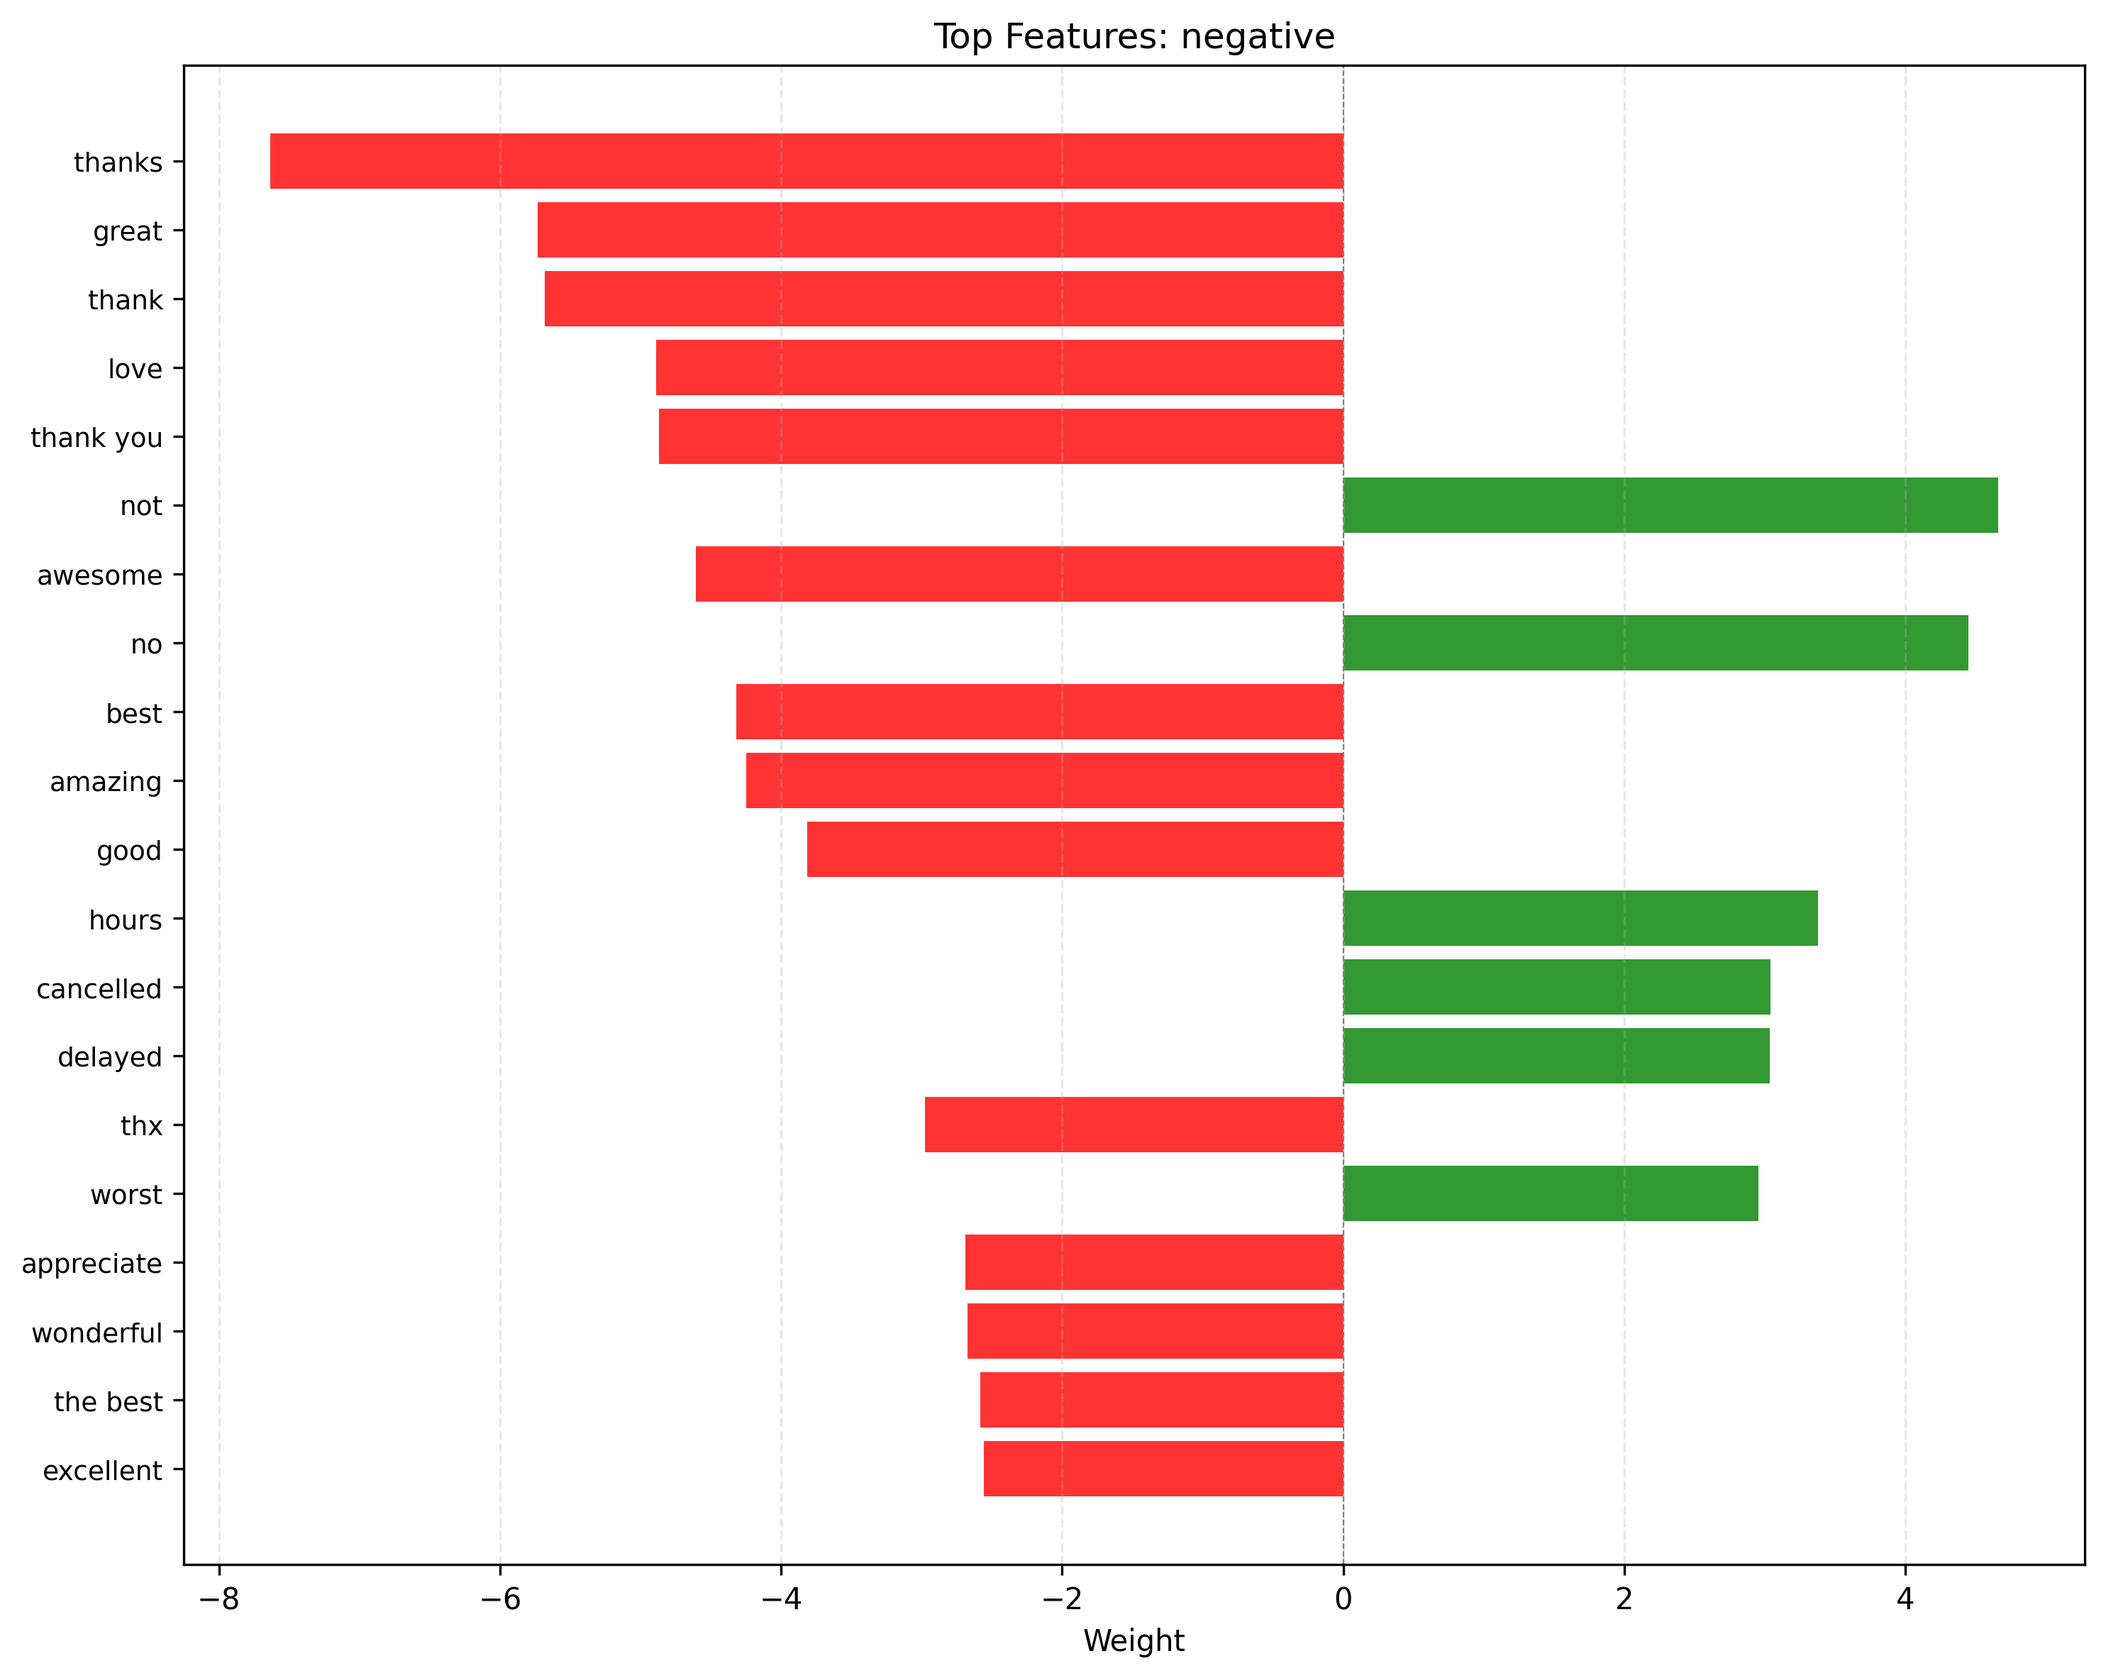
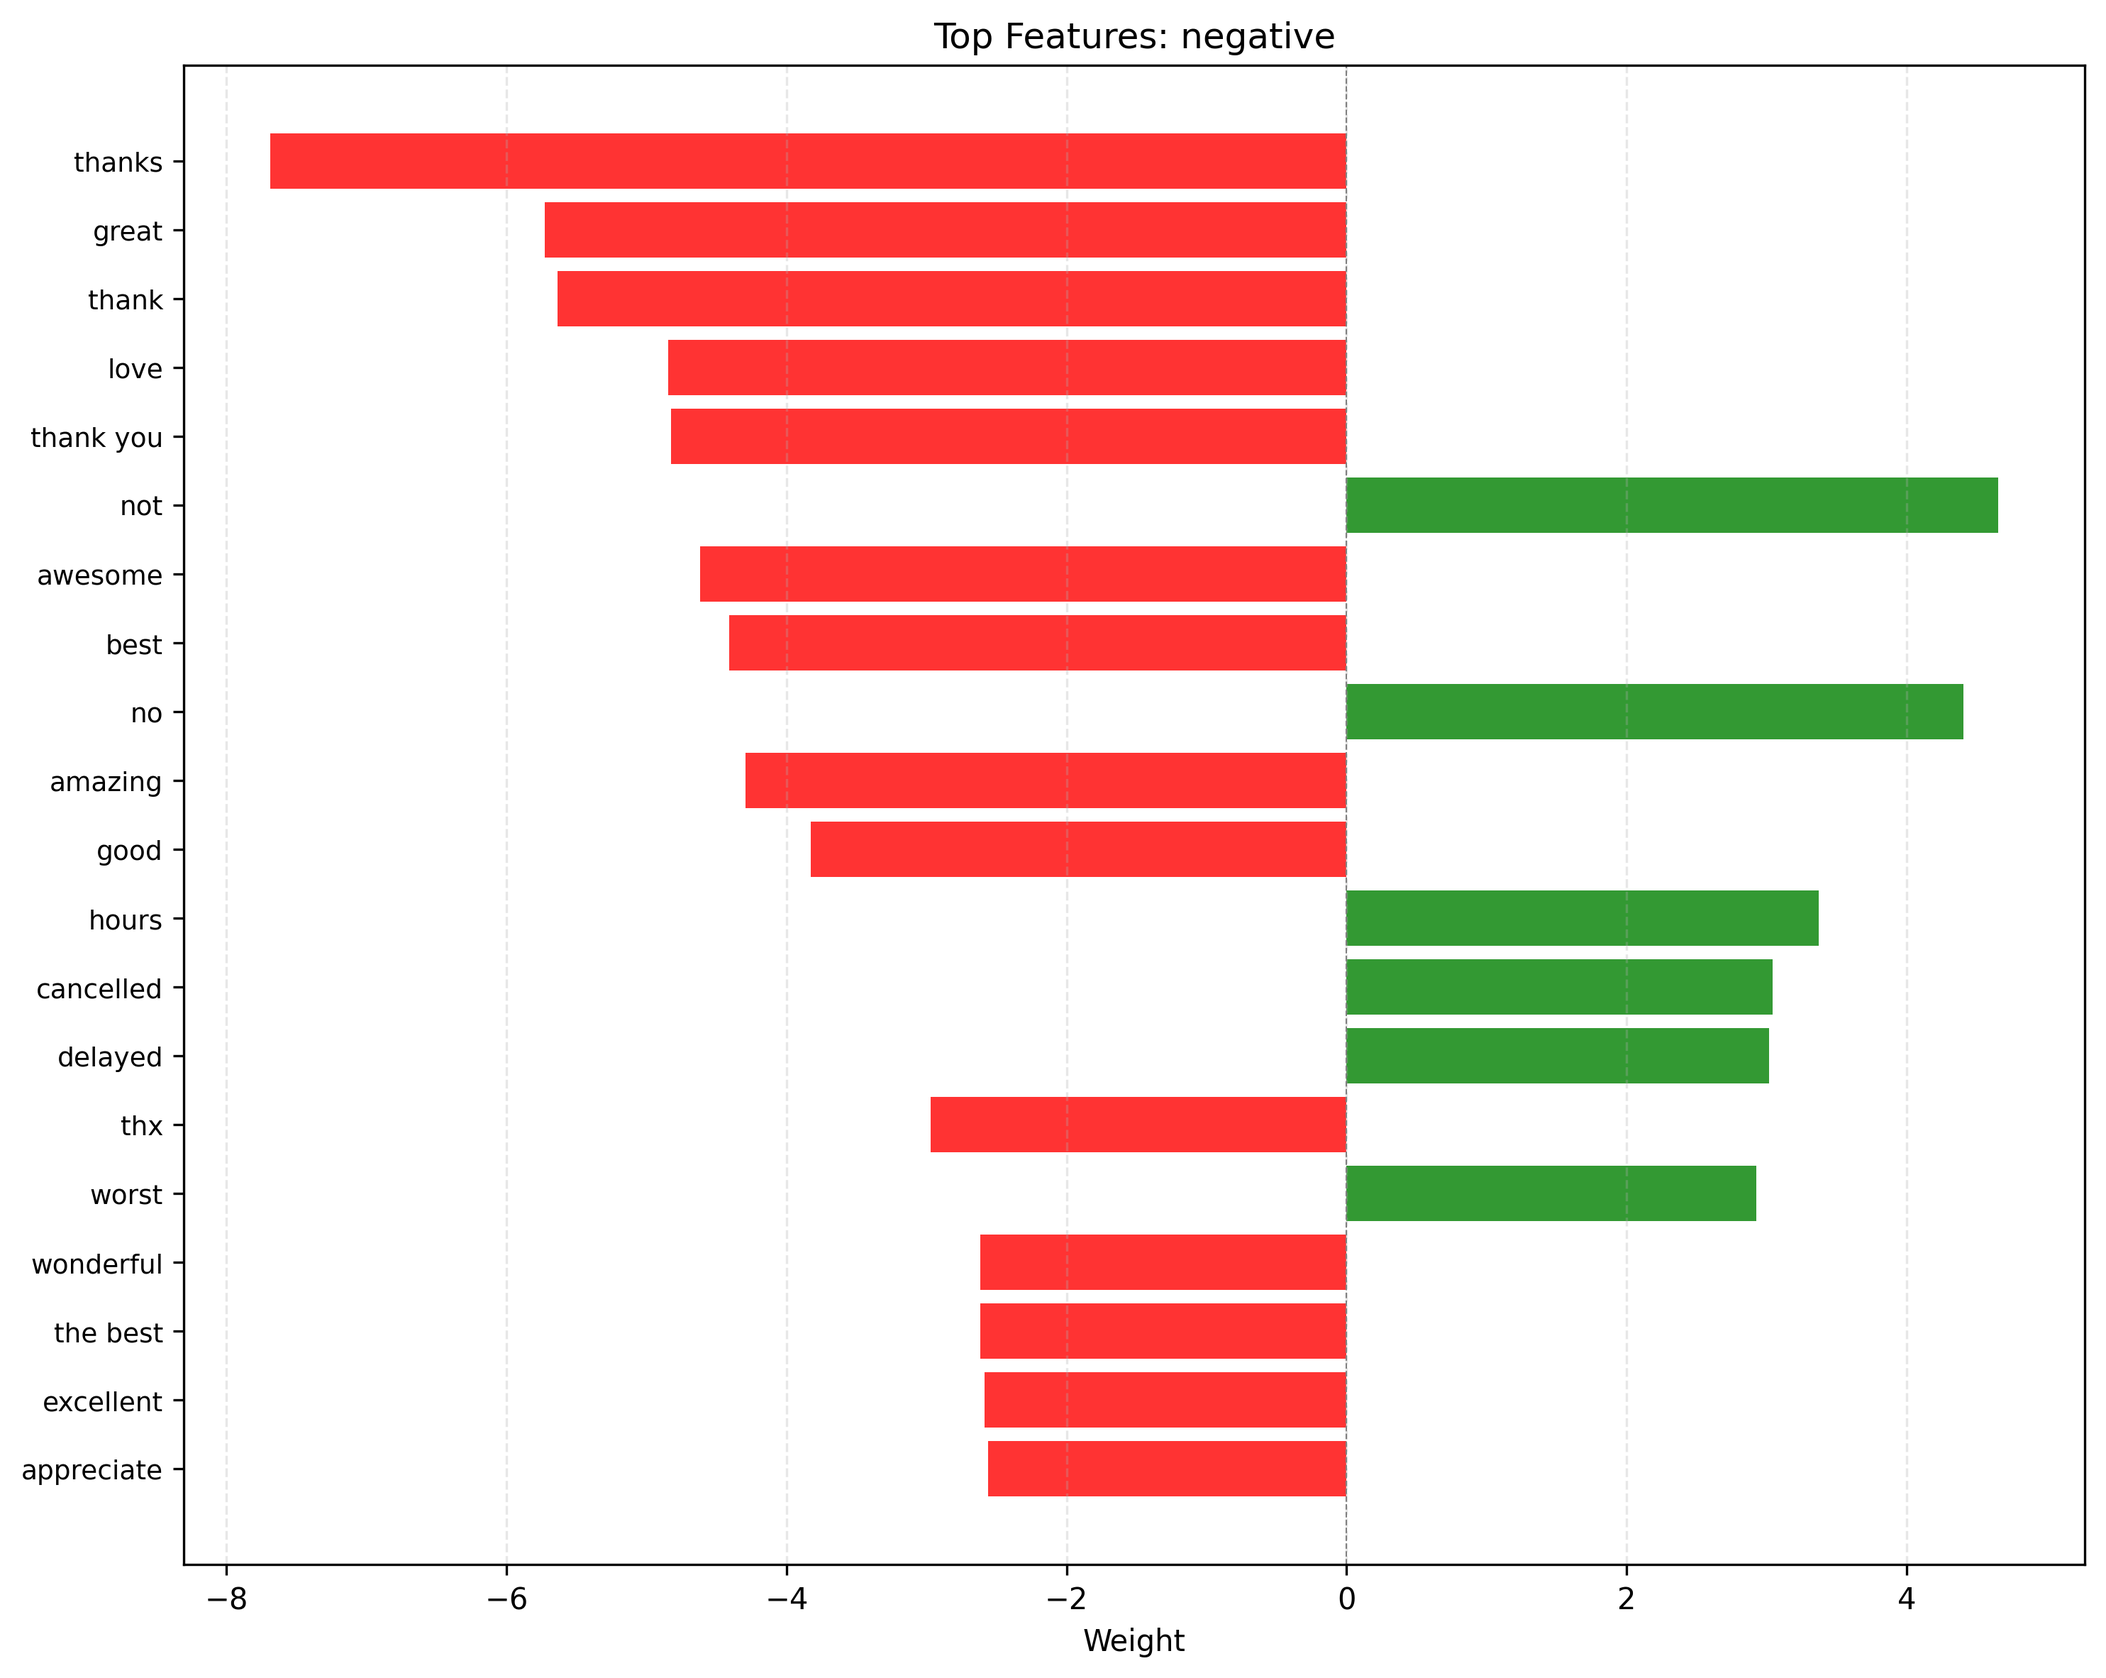
docs: update plots and metrics after retraining with fixed pipeline

diff --git a/README.ru.md b/README.ru.md
@@ -24,7 +24,7 @@
 
 | Категория | Ключевые особенности |
 |-----------|---------------------|
-| **Данные и предобработка** | Фильтрация по порогу уверенности, настраиваемая очистка (URL, упоминания, пунктуация), опциональная лемматизация, TF-IDF/Count векторизация |
+| **Данные и предобработка** | Фильтрация по порогу уверенности, настраиваемая очистка (URL, упоминания, пунктуация), опциональная лемматизация, TF-IDF/Count векторизация; очистка встроена в векторизатор, поэтому при обучении и инференсе текст обрабатывается одинаково |
 | **Обучение и оценка** | Обучение с весами по уверенности, стратифицированное разделение, комплексные метрики (F1, ROC-AUC, матрица ошибок), авто-экспорт в JSON/CSV |
 | **Интерпретируемость** | Топ-слова с наибольшим вкладом по классам, объяснения для отдельных предсказаний, при отсутствии пакета SHAP используется резервный метод |
 | **API и сервис** | Асинхронно-безопасные эндпоинты FastAPI, валидация через Pydantic v2, потокобезопасный сервис модели, CORS, обработка таймаутов |
@@ -37,17 +37,21 @@
 
 | Метрика | Multiclass (3 класса) | Binary (positive/negative) |
 |---------|----------------------|--------------------------|
+| **Accuracy** | 0.840 | 0.931 |
+| **F1 (macro)** | 0.780 | 0.805 |
+| **ROC-AUC** | 0.935 (OvO, macro) | 0.964 |
 | **Матрица ошибок** | ![Multiclass CM](docs/images/multiclass/confusion_matrix.png) | ![Binary CM](docs/images/binary/confusion_matrix.png) |
 | **Positive признаки** | ![Positive Multi](docs/images/multiclass/feature_importance_positive.png) | ![Positive Binary](docs/images/binary/feature_importance_positive.png) |
 | **Negative признаки** | ![Negative Multi](docs/images/multiclass/feature_importance_negative.png) | ![Negative Binary](docs/images/binary/feature_importance_negative.png) |
 | **Neutral признаки** | ![Neutral Multi](docs/images/multiclass/feature_importance_neutral.png) | *N/A* |
 
 > 💡 **Примечания**:
+> - Метрики посчитаны на отложенной стратифицированной выборке (25%, `random_state=42`) из 10 768 твитов с уверенностью разметки ≥ 0.7; векторизатор обучается только на обучающей части
 > - Binary режим исключает нейтральный класс (target=2), фокусируясь исключительно на позитивных/негативных сигналах
 > - Важность признаков показывает топ-20 слов по весовому коэффициенту логистической регрессии
 > - Матрицы ошибок нормализованы (по строкам) для объективного сравнения классов
 
-## Стркутура проекта
+## Структура проекта
 
 ```
 airline-sentiment-analysis/
@@ -78,11 +82,13 @@ airline-sentiment-analysis/
 │   └── predict.py               # CLI-инференс и пакетный экспорт
 ├── tests/
 │   ├── conftest.py              # Общие фикстуры pytest, маркеры, глобальная конфигурация тестов
+│   ├── test_data_loader.py      # Юнит-тесты разбиения train/test (согласованность строк, стратификация)
 │   ├── test_preprocessing.py    # Юнит-тесты очистки текста, токенизации, векторизации
 │   ├── test_ml_models.py        # Юнит-тесты обучения, оценки, сохранения моделей
 │   ├── test_api_models.py       # Юнит-тесты схем Pydantic: валидация, сериализация, ограничения
 │   ├── test_api_services.py     # Юнит-тесты ModelService: асинхронность, потокобезопасность, обработка ошибок
-│   └── test_integration.py      # Сквозные тесты пайплайна: config → data → model → API
+│   ├── test_integration.py      # Сквозные тесты пайплайна: config → data → model → API
+│   └── test_train_pipeline.py   # Регрессионные тесты артефактов scripts/train.py (без утечки, согласованные отчеты)
 ├── pytest.ini                   # Конфигурация pytest: маркеры, фильтры, режим asyncio, опции по умолчанию
 ├── .github/workflows/test.yml   # CI-пайплайн
 ├── .gitignore                   # Шаблоны игнорирования для Git
@@ -143,7 +149,7 @@ data:
 
 preprocessing:
   vectorizer: { type: "tfidf", max_features: 2000, ngram_range: [1, 2] }
-  cleaning: { remove_urls: true, remove_mentions: false, remove_special_chars: true }
+  cleaning: { remove_urls: true, remove_mentions: true, remove_special_chars: true }
 
 model:
   training: { max_iter: 500, class_weight: "balanced", use_confidence_weights: true }
@@ -204,4 +210,4 @@ curl -X POST http://localhost:8000/predict/batch \
 
 Илья Шапошников | [E-mail](mailto:ilia.a.shaposhnikov@gmail.com) | [LinkedIn](https://linkedin.com/in/iliashaposhnikov)
 
-**[English Version / На английском](README.md)**
+**[English Version / На английском](README.md)**

diff --git a/README.md b/README.md
@@ -24,7 +24,7 @@ This project demonstrates a complete machine learning lifecycle: from raw data i
 
 | Category | Highlights |
 |----------|------------|
-| **Data & Preprocessing** | Confidence threshold filtering, configurable cleaning (URLs, mentions, punctuation), optional lemmatization, TF-IDF/Count vectorization |
+| **Data & Preprocessing** | Confidence threshold filtering, configurable cleaning (URLs, mentions, punctuation), optional lemmatization, TF-IDF/Count vectorization; cleaning is embedded in the vectorizer, so training and inference process text identically |
 | **Training & Evaluation** | Confidence-weighted learning, stratified splits, comprehensive metrics (F1, ROC-AUC, confusion matrix), auto-export to JSON/CSV |
 | **Interpretability** | Top contributing words per class, per-prediction explanations, SHAP fallback if package unavailable |
 | **API & Serving** | Async-safe FastAPI endpoints, Pydantic v2 validation, thread-safe model service, CORS, timeout handling |
@@ -37,12 +37,16 @@ This project demonstrates a complete machine learning lifecycle: from raw data i
 
 | Metric | Multiclass (3 classes) | Binary (positive/negative) |
 |--------|----------------------|--------------------------|
+| **Accuracy** | 0.840 | 0.931 |
+| **F1 (macro)** | 0.780 | 0.805 |
+| **ROC-AUC** | 0.935 (OvO, macro) | 0.964 |
 | **Confusion Matrix** | ![Multiclass CM](docs/images/multiclass/confusion_matrix.png) | ![Binary CM](docs/images/binary/confusion_matrix.png) |
 | **Positive Features** | ![Positive Multi](docs/images/multiclass/feature_importance_positive.png) | ![Positive Binary](docs/images/binary/feature_importance_positive.png) |
 | **Negative Features** | ![Negative Multi](docs/images/multiclass/feature_importance_negative.png) | ![Negative Binary](docs/images/binary/feature_importance_negative.png) |
 | **Neutral Features** | ![Neutral Multi](docs/images/multiclass/feature_importance_neutral.png) | *N/A* |
 
 > 💡 **Notes**:
+> - Held-out stratified test set (25%, `random_state=42`) from 10,768 tweets with annotator confidence ≥ 0.7; the vectorizer is fitted on the training split only
 > - Binary mode excludes neutral class (target=2), focusing on clear positive/negative signals
 > - Feature importance shows top 20 words by logistic regression coefficient weight
 > - Confusion matrices are normalized (row-wise) for fair class comparison
@@ -51,7 +55,7 @@ This project demonstrates a complete machine learning lifecycle: from raw data i
 
 ```
 airline-sentiment-analysis/
-├── configs/config.yaml
+├── configs/
 │   ├── config.yaml              # Centralized configuration (nested, validated)
 │   └── CONFIG_GUIDE.md          # Detailed reference for config parameters, validation rules, and env overrides
 ├── data/
@@ -78,11 +82,13 @@ airline-sentiment-analysis/
 │   └── predict.py               # CLI inference & batch export
 ├── tests/
 │   ├── conftest.py              # Shared pytest fixtures, markers, and global test configuration
+│   ├── test_data_loader.py      # Unit tests for the train/test split helper (alignment, stratification)
 │   ├── test_preprocessing.py    # Unit tests for text cleaning, tokenization, and vectorization
 │   ├── test_ml_models.py        # Unit tests for model training, evaluation, and persistence logic
 │   ├── test_api_models.py       # Unit tests for Pydantic schemas: validation, serialization, constraints
 │   ├── test_api_services.py     # Unit tests for ModelService: async handling, thread safety, error propagation
-│   └── test_integration.py      # End-to-end pipeline tests: config → data → model → API
+│   ├── test_integration.py      # End-to-end pipeline tests: config → data → model → API
+│   └── test_train_pipeline.py   # Regression tests for scripts/train.py artifacts (no leakage, aligned reports)
 ├── pytest.ini                   # Pytest configuration: markers, filters, asyncio mode, default options
 ├── .github/workflows/test.yml   # CI pipeline
 ├── .gitignore                   # Git ignore patterns
@@ -143,7 +149,7 @@ data:
 
 preprocessing:
   vectorizer: { type: "tfidf", max_features: 2000, ngram_range: [1, 2] }
-  cleaning: { remove_urls: true, remove_mentions: false, remove_special_chars: true }
+  cleaning: { remove_urls: true, remove_mentions: true, remove_special_chars: true }
 
 model:
   training: { max_iter: 500, class_weight: "balanced", use_confidence_weights: true }
@@ -202,4 +208,4 @@ curl -X POST http://localhost:8000/predict/batch \
 
 Ilya Shaposhnikov | [E-mail](mailto:ilia.a.shaposhnikov@gmail.com) | [LinkedIn](https://linkedin.com/in/iliashaposhnikov)
 
-**[Russian Version / На русском](README.ru.md)**
+**[Russian Version / На русском](README.ru.md)**
